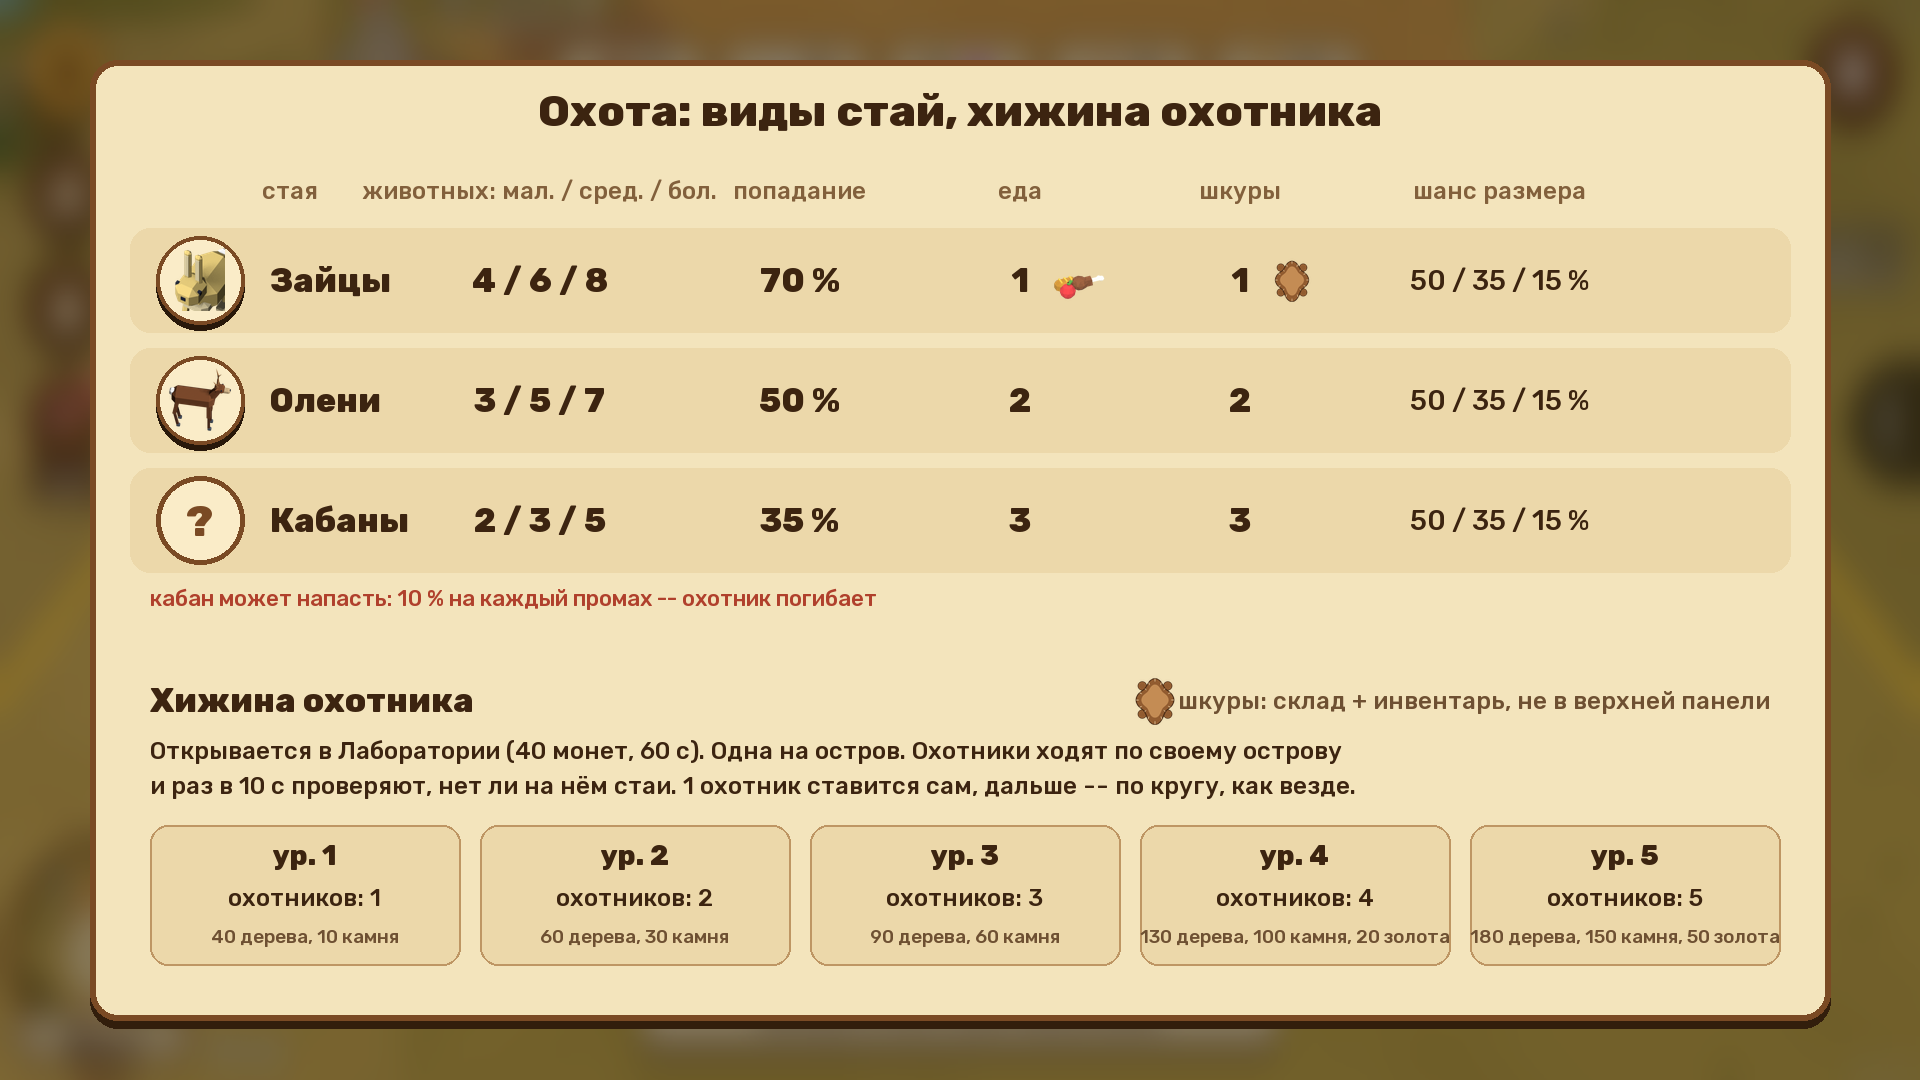
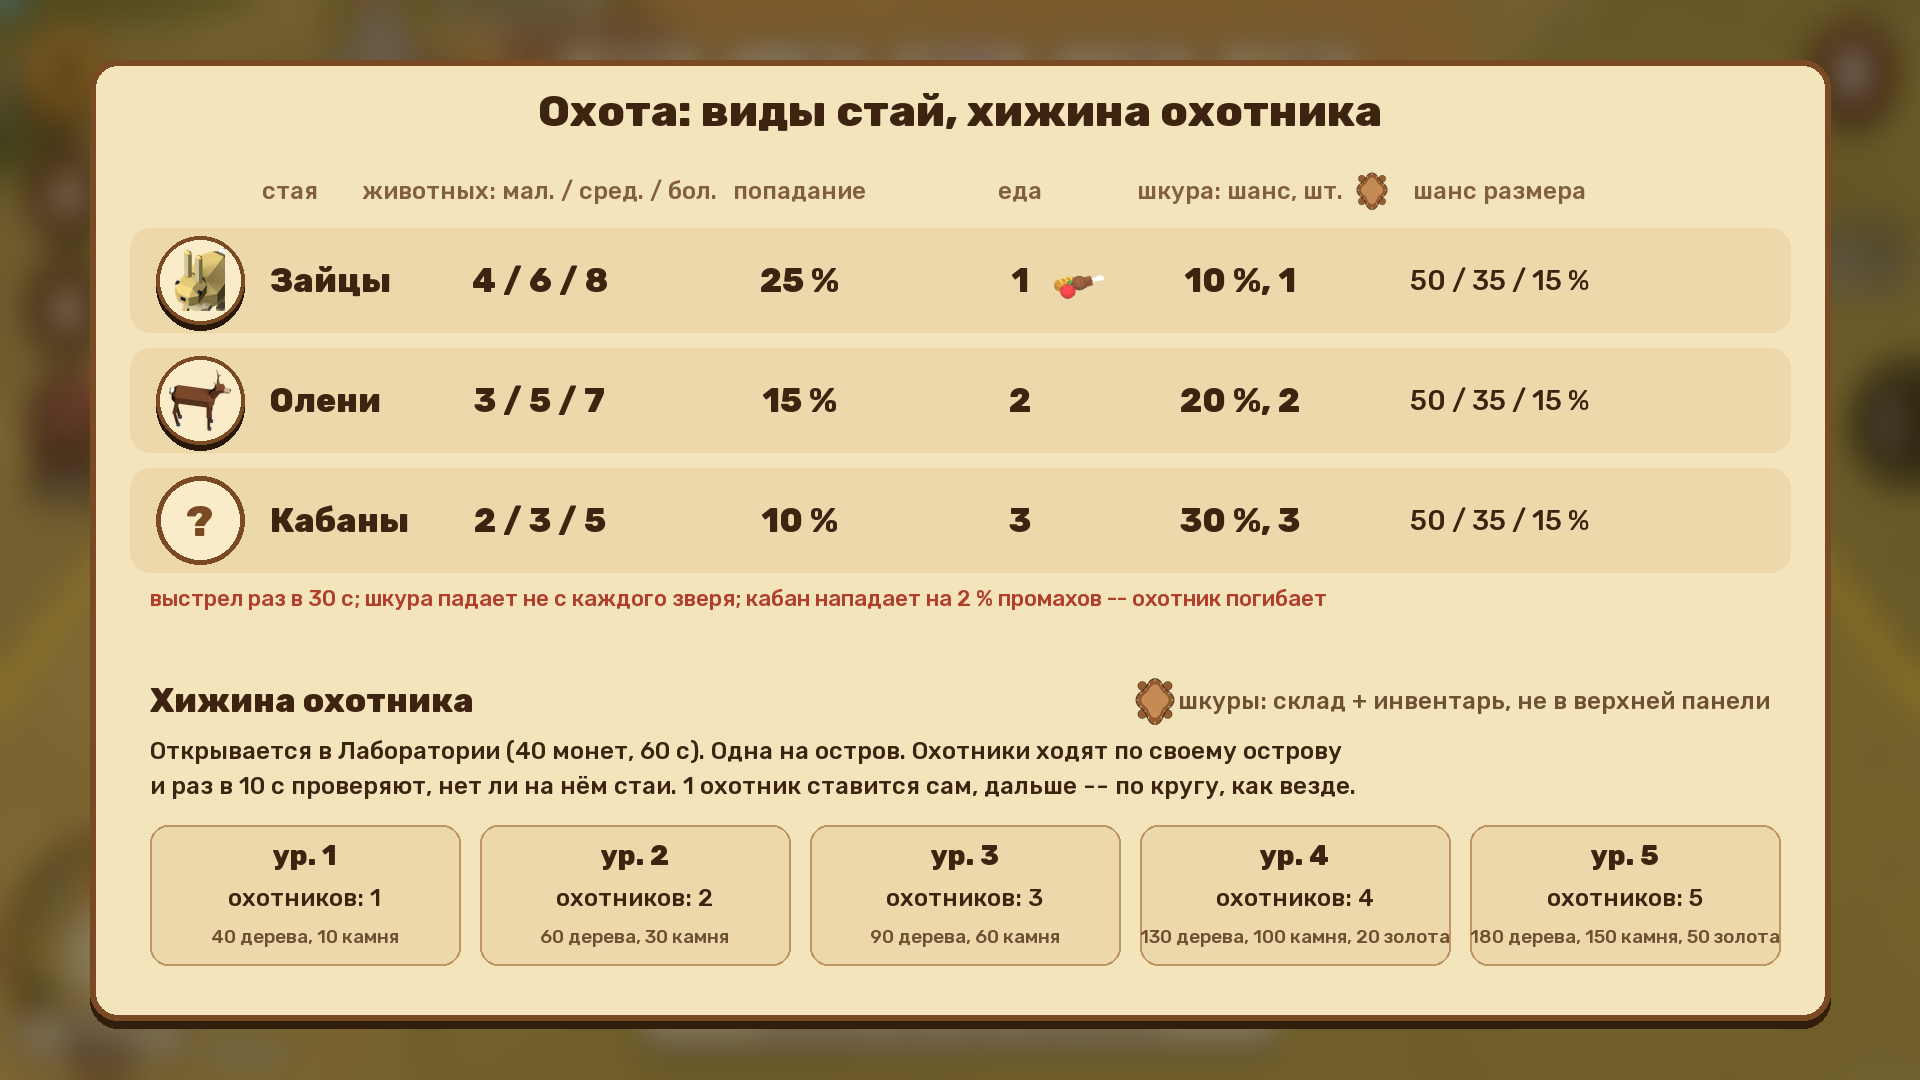
Hunting numbers v2 (the user: hits too easy, hides must be rare): hit 25/15/10 %, a shot every 30 s, hides drop 10/20/30 % of kills, boar attack 2 % of misses

diff --git a/Tools/ui/hunting_concepts.py b/Tools/ui/hunting_concepts.py
@@ -260,12 +260,12 @@ def screen_sheet():
     hare = head('FaunaRabbit_a', (0.0, 0.0, 0.75, 0.8))
     deer = head('FaunaDeer_c', (0.0, 0.0, 1.0, 1.0))
     cols = [180, 540, 800, 1020, 1240, 1500]
-    heads = ['стая', 'животных: мал. / сред. / бол.', 'попадание', 'еда', 'шкуры', 'шанс размера']
+    heads = ['стая', 'животных: мал. / сред. / бол.', 'попадание', 'еда', 'шкура: шанс, шт.', 'шанс размера']
     y0 = 190
     for x, t in zip(cols, heads):
         d.text((x if x != 180 else 290, y0), t, font=font(24, True), fill=(130, 96, 60), anchor='mm')
-    rows = [('Зайцы', hare, '4 / 6 / 8', '70 %', '1', '1'), ('Олени', deer, '3 / 5 / 7', '50 %', '2', '2'),
-            ('Кабаны', None, '2 / 3 / 5', '35 %', '3', '3')]
+    rows = [('Зайцы', hare, '4 / 6 / 8', '25 %', '1', '10 %, 1'), ('Олени', deer, '3 / 5 / 7', '15 %', '2', '20 %, 2'),
+            ('Кабаны', None, '2 / 3 / 5', '10 %', '3', '30 %, 3')]
     for i, (name, pic, n, hit, food, hide) in enumerate(rows):
         y = y0 + 90 + i * 120
         d.rounded_rectangle((130, y - 52, W - 130, y + 52), 20, fill=(236, 216, 170))
@@ -279,8 +279,8 @@ def screen_sheet():
             d.text((x, y), v, font=font(34), fill=INK, anchor='mm')
         d.text((cols[5], y), '50 / 35 / 15 %', font=font(28, True), fill=INK, anchor='mm')
     img.alpha_composite(icon('Res_Food', 64), (cols[3] + 26, y0 + 90 - 32))
-    img.alpha_composite(hide_icon(44), (cols[4] + 30, y0 + 90 - 22))
-    d.text((150, y0 + 90 + 2 * 120 + 78), 'кабан может напасть: 10 % на каждый промах -- охотник погибает', font=font(22, True),
+    img.alpha_composite(hide_icon(40), (cols[4] + 112, y0 - 20))
+    d.text((150, y0 + 90 + 2 * 120 + 78), 'выстрел раз в 30 с; шкура падает не с каждого зверя; кабан нападает на 2 % промахов -- охотник погибает', font=font(22, True),
            fill=(176, 64, 44), anchor='lm')
 
     y = 700

diff --git a/Design/features/hunting.md b/Design/features/hunting.md
@@ -36,12 +36,18 @@ Read with: [food-and-hunger](food-and-hunger.md) (food buildings, «+N» popups)
 - The decorative deer and hares (Wildlife) stay as they are; a huntable herd is told apart by its sign.
 
 ## Numbers proposed by Claude (the user: «поставь значения сам пока что») -- go to the sheet, not C#
-| herd | animals small/med/large | hit chance | food | hides |
+Revised 2026-11-21 (the user: «слишком высокие шансы попадания, тогда не будет смысла в прокачке хижины, шкура
+должна быть редкой добычей, которую трудно получить»): low hit chances + a slow shot, so ONE hunter takes only part of a
+herd and the hut's levels (more hunters) matter; a hide drops only from some kills.
+| herd | animals small/med/large | hit chance | food per kill | hide: chance per kill, amount |
 |---|---|---|---|---|
-| hares | 4 / 6 / 8 | 70 % | 1 | 1 |
-| deer | 3 / 5 / 7 | 50 % | 2 | 2 |
-| boars | 2 / 3 / 5 | 35 % | 3 | 3 |
-- size chance small/medium/large 50 / 35 / 15 %; a boar attacks on 10 % of the misses -> the hunter dies.
+| hares | 4 / 6 / 8 | 25 % | 1 | 10 %, 1 |
+| deer | 3 / 5 / 7 | 15 % | 2 | 20 %, 2 |
+| boars | 2 / 3 / 5 | 10 % | 3 | 30 %, 3 |
+- a hunter shoots once every **30 s** (~16 shots in a herd's 8 min, less the walk to it): per hunter per herd about
+  4 hares / 2.4 deer / 1.6 boars and ~0.4 / 1 / 1.4 hides -> a large herd needs 2-3+ hunters.
+- size chance small/medium/large 50 / 35 / 15 %; a boar attacks on **2 %** of the misses -> the hunter dies
+  (~0.3 deaths per hunter per boar herd; 10 % killed him almost every time).
 - Hut research: 40 coins, 60 s. Levels 1-5 cost: 40 wood + 10 stone; 60 + 30; 90 + 60; 130 + 100 + 20 gold; 180 + 150 + 50 gold.
 - Hunters check the island every 10 s. Herd reach and the distance to buildings: to set when building (proposed
   reach 6-8 cells, 10-12 cells from any building).
